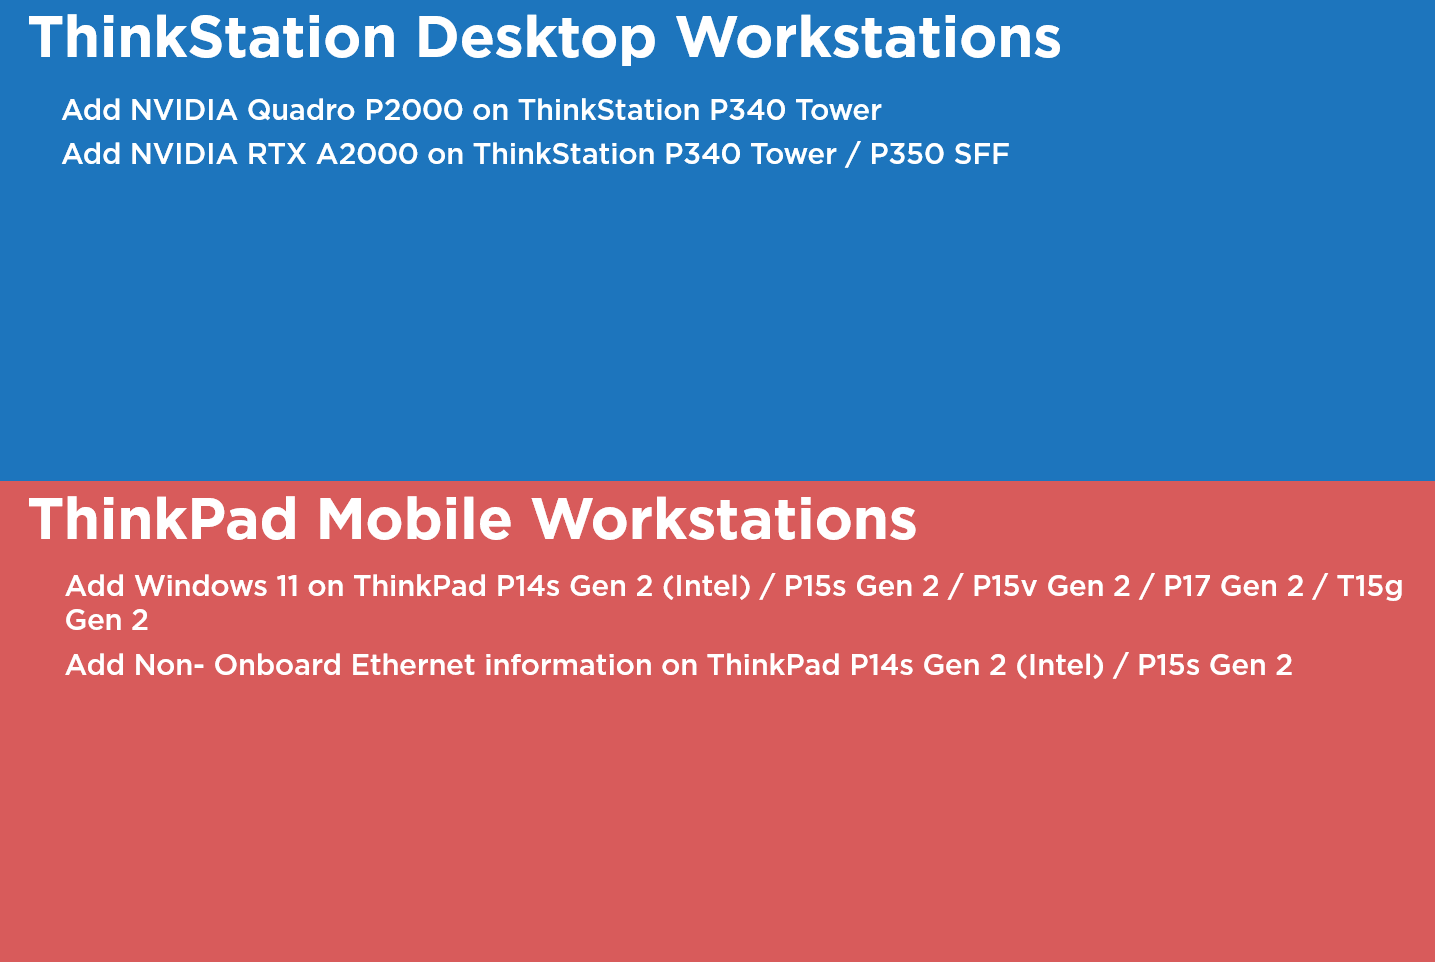
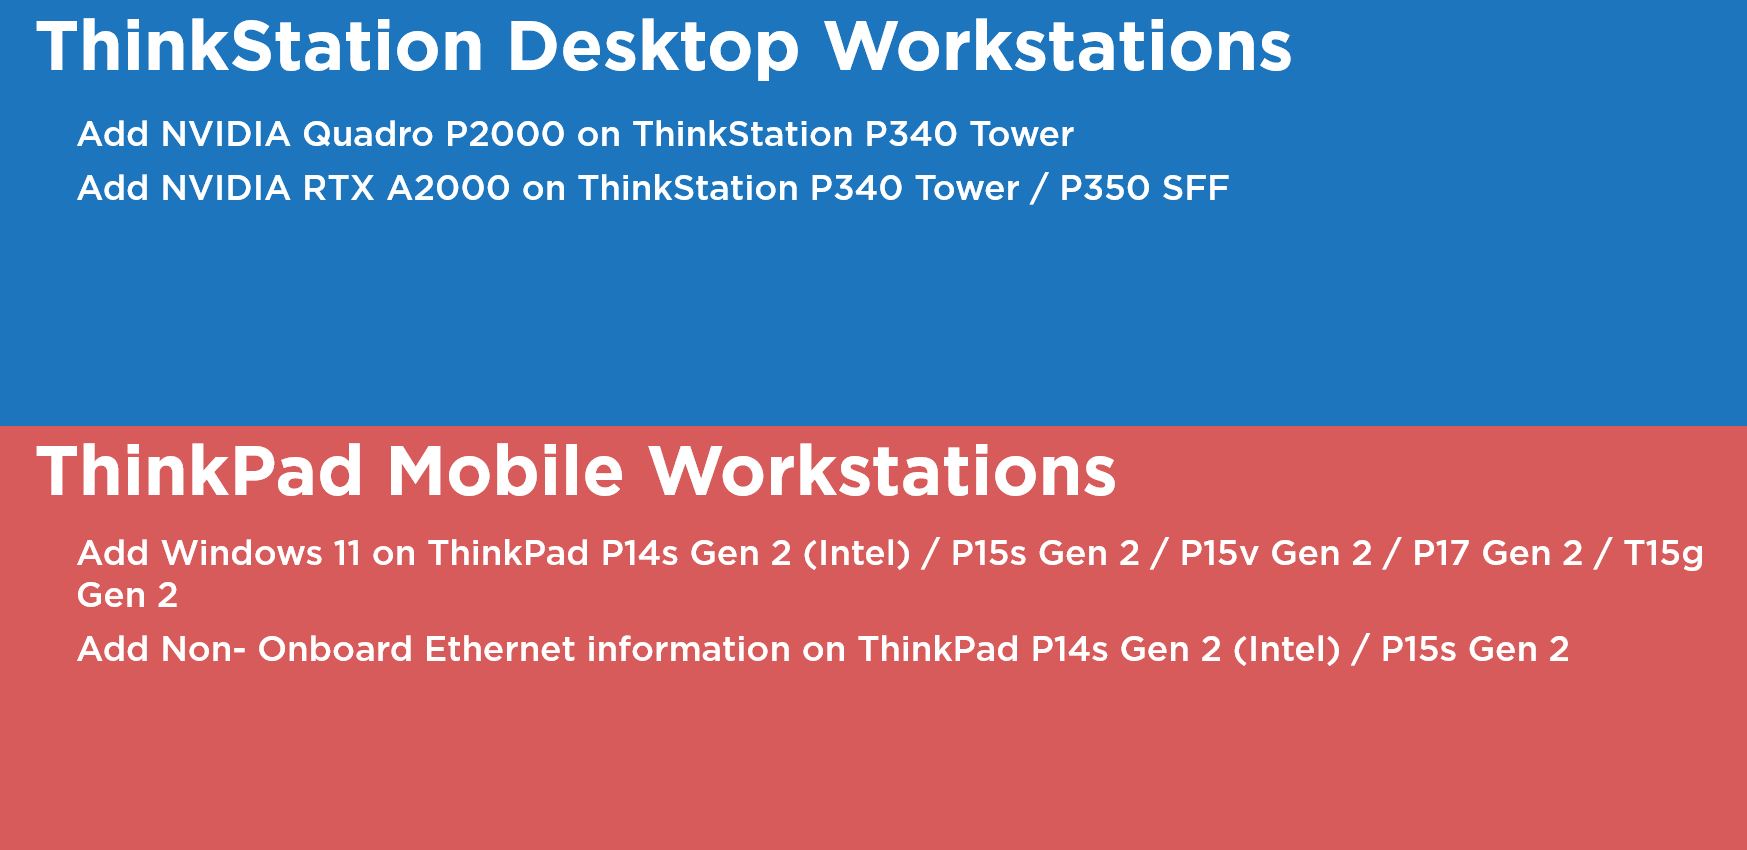
first commit

Changed region(s): [[0.0, 0.4894, 0.9812, 0.7953], [0.0, 0.0, 0.7359, 0.2447]]

diff --git a/content.html b/content.html
@@ -34,14 +34,7 @@
 <table border="0" align="center" cellpadding="0" cellspacing="0" width="839" height="119" bgcolor="#1d75bd"  style="border-collapse: collapse;text-align:left;">
     <tr>
         <td>
-            <img src="https://gitee.com/houyufengatgitee/wspsref_newsletter/raw/main/img/ts.png" width="839"  style="display: block;" />
-        </td>
-        </tr>
-</table>
-<table border="0" align="center" cellpadding="0" cellspacing="0" width="839" height="119" bgcolor="#d85b5b"  style="border-collapse: collapse;">
-    <tr>
-        <td>
-            <img src="https://gitee.com/houyufengatgitee/wspsref_newsletter/raw/main/img/tp.png" width="839"  style="display: block;" />
+            <img src="https://gitee.com/houyufengatgitee/wspsref_newsletter/raw/main/img/changelog.png" width="839"  style="display: block;" />
         </td>
         </tr>
 </table>
